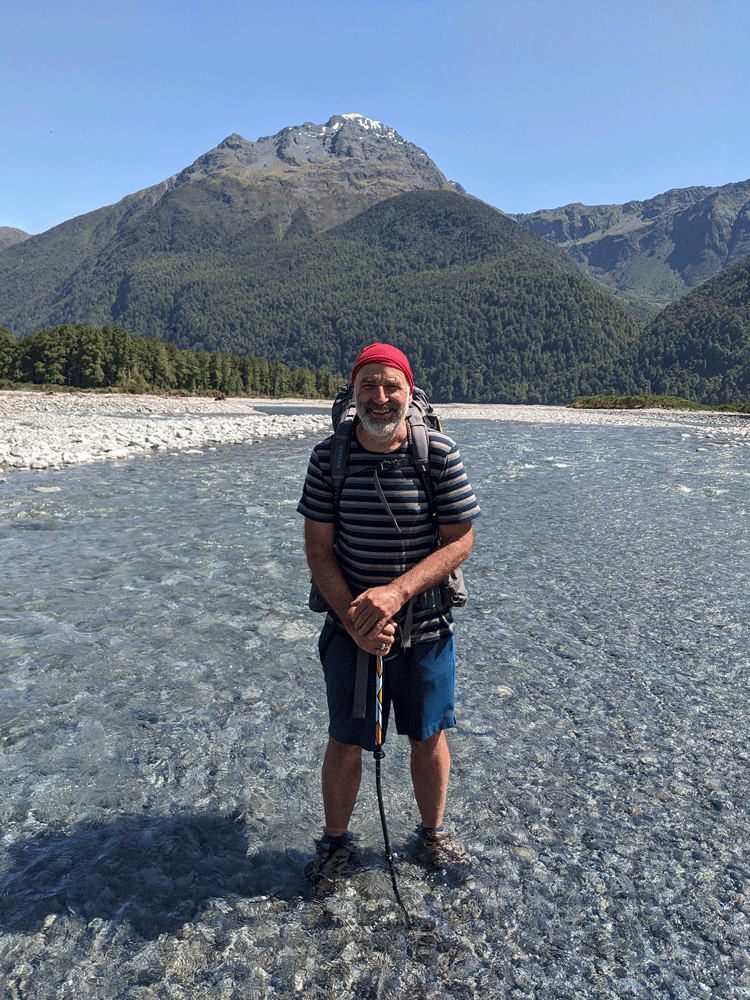
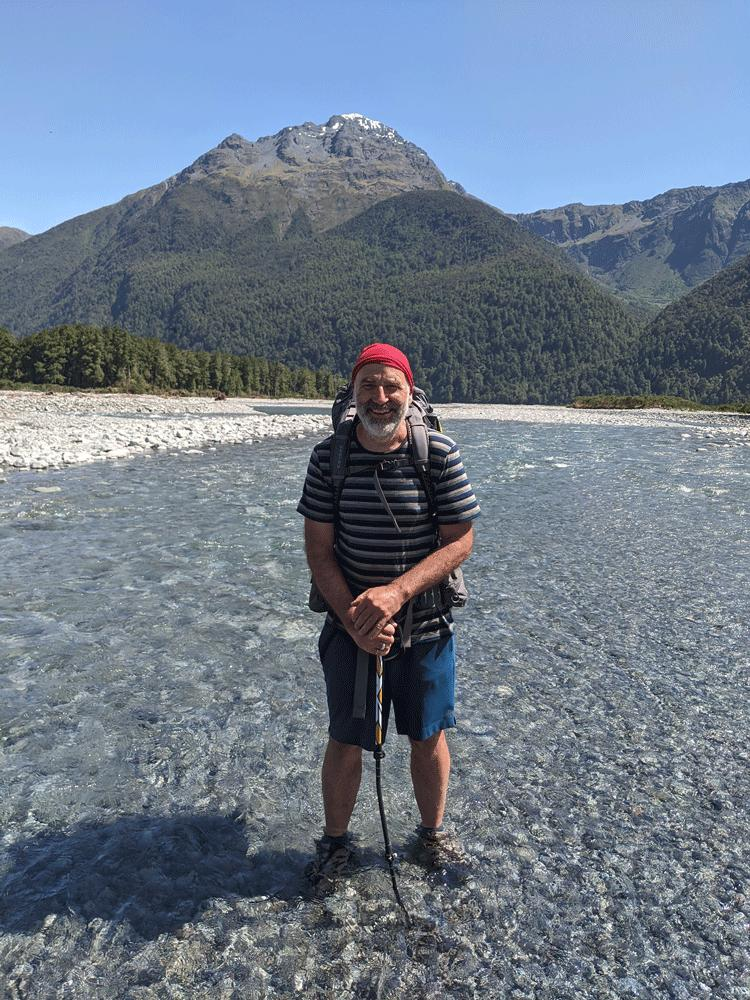
Trying to fix this story

diff --git a/content/news/2020-03-12-te-araroa/content.md b/content/news/2020-03-12-te-araroa/content.md
@@ -16,7 +16,8 @@ Discovering new parts of Aotearoa he knew nothing about, making friends with fel
 His photos feature beautiful native plants, views and new young Irish and Scottish walking friends – including meals and celebrations as they made it to another town.
 
 “I liked the rhythm. You can be alone all day but you catch up with people at night.”  
-![Cooling down in the river](/news/2020-03-12-te-araroa/wading-river.jpg)
+
+![Crossing one of the many South Island rivers](news/2020-03-12-te-araroa/wading-river.jpg)
 
 He had no major injuries but reported that overcoming blisters, strains, niggles and overall soreness needed constant attention. “One strain had to wait till I got reception and could consult Dr Google on how to strap it up, but that worked a treat!”
 
